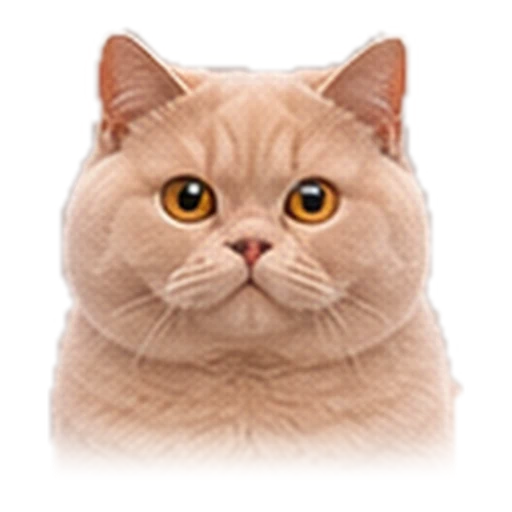
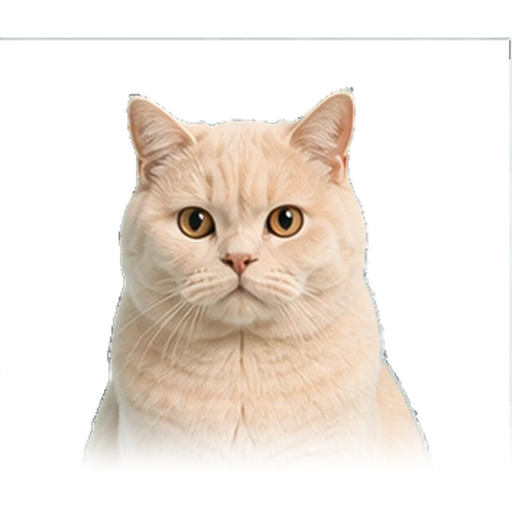
Finish the artwork swap, and get Grace's colour right (#20)
* Crop the cat portraits past the matte damage

The delivered artwork had mattes that ate into the cats. Over a saturated
background rather than the page's own pale lilac it is unmistakable:
black-white-03 has no body below the chest, blue is missing its lower right
quarter and both front paws, and a dozen others are sliced off flat at the
base of the legs.

None of it is repairable — WebP zeroes RGB under alpha, so the pixels behind
the holes are compression noise, not fur.

All the damage is below the chest, so store the assets cropped to a bust and
ramp alpha to zero over the bottom of the crop so the cut line dissolves
instead of showing as a straight edge. Both slots that use these images are
square, so contain-and-centre them. Side effect: 4.4 MB -> 1.1 MB.

tabby and grace-dominica-blh had their heads destroyed, so there was nothing
to crop to. Delete both; send other tabbies to brown-tabby and pick longhairs
by colour. Two fresh renders bring them back with no other change.

Claude-Session: https://claude.ai/code/session_01VzzTrYmru1tcCWxj1nBoPS

* Redesign the site around the portraits

The painted busts are the best thing on the page, so they lead it now. The
whole site moves to a gallery footing: ink walls, portraits lit from above
with a warm pool beneath them, gold leaf doing the accent work that coral and
marigold used to.

Every pedigree card is a framed portrait with a name plate under it, so the
[…]

diff --git a/fur.js b/fur.js
@@ -30,11 +30,8 @@ const HAVE = new Set(["yoshi","blue","blue-white-01","blue-white-02","blue-white
    relative rather than to a default. Noted rather than hidden.
 
    Tabbies that are neither blue nor chocolate use the brown tabby, there being
-   no generic tabby artwork. And Grace Dominica is a British Longhair, so coat
-   length wins over colour for her: the longhair artwork is a silver-grey cat
-   and her code says BLH p 03, fawn and white. A shorthair in the right colour
-   read worse than a longhair in the wrong one, since her coat is the whole
-   reason she stands out on this tree. */
+   no generic tabby artwork. Grace Dominica is no longer a substitution: the
+   longhair artwork is now fawn and white, which is what BLH p 03 says she is. */
 const NEAREST = { red: "cream", cinnamon: "cinnamon", fawn: "fawn", black: "black",
                   blue: "blue", lilac: "lilac", cream: "cream", chocolate: "chocolate" };
 

diff --git a/docs/cat-artwork.md b/docs/cat-artwork.md
@@ -55,17 +55,24 @@ Both slots that use these — `.portrait` and `.bigcat` — are square, so the C
   shows as a solid cinnamon despite being `BSH q 03`.
 - **Tabbies that are neither blue nor chocolate → brown tabby**, no generic
   tabby artwork.
-- **Grace Dominica** is `BLH p 03` — fawn and white — but the longhair artwork is
-  a silver-grey cat. Coat length wins over colour for her, because the coat is the
-  whole reason she stands out on this tree. Her crop keeps more chest than the
-  others so the ruff actually reads; at the standard 60% she looks shorthaired.
+**Grace Dominica is no longer a substitution.** Her artwork is fawn and white,
+matching `BLH p 03`. Her crop keeps more chest than the others (80% rather than
+60%) so the ruff actually reads — at the standard crop a longhair looks
+shorthaired.
 
-## Still on the old batch
+## Two more repairs the pipeline does
 
-Three assets carry 13 of the 45 cats and are still from the original grey-backdrop
-batch: `lilac` (5 cats), `cream-white-03` (5) and `cream` (3). They are undamaged,
-but the face shape differs slightly from the cyan set. A follow-up render of those
-three on cyan would make the set uniform.
+Later batches needed two steps beyond the key and despill, both kept because they
+cost nothing when there is nothing to fix:
+
+- **Colour un-contamination.** Where a source has already blended cat into
+  backdrop, its partial-alpha pixels are part cyan, and despilling those just
+  turns them dark — a dirty outline. Take their colour from the nearest fully
+  opaque pixel and let alpha alone carry the soft edge.
+- **Stroked outlines.** One source arrived with a thin near-black line drawn
+  round the cat, opaque, so no key touches it. Dark neutral pixels sitting
+  against the backdrop are cut. Safe here because no cat in the set is black at
+  the silhouette — revisit this if one ever is.
 
 Earlier states are in git history: the original full-body cutouts at `4febd11`,
 the first bust crop at `16adfc0`.
